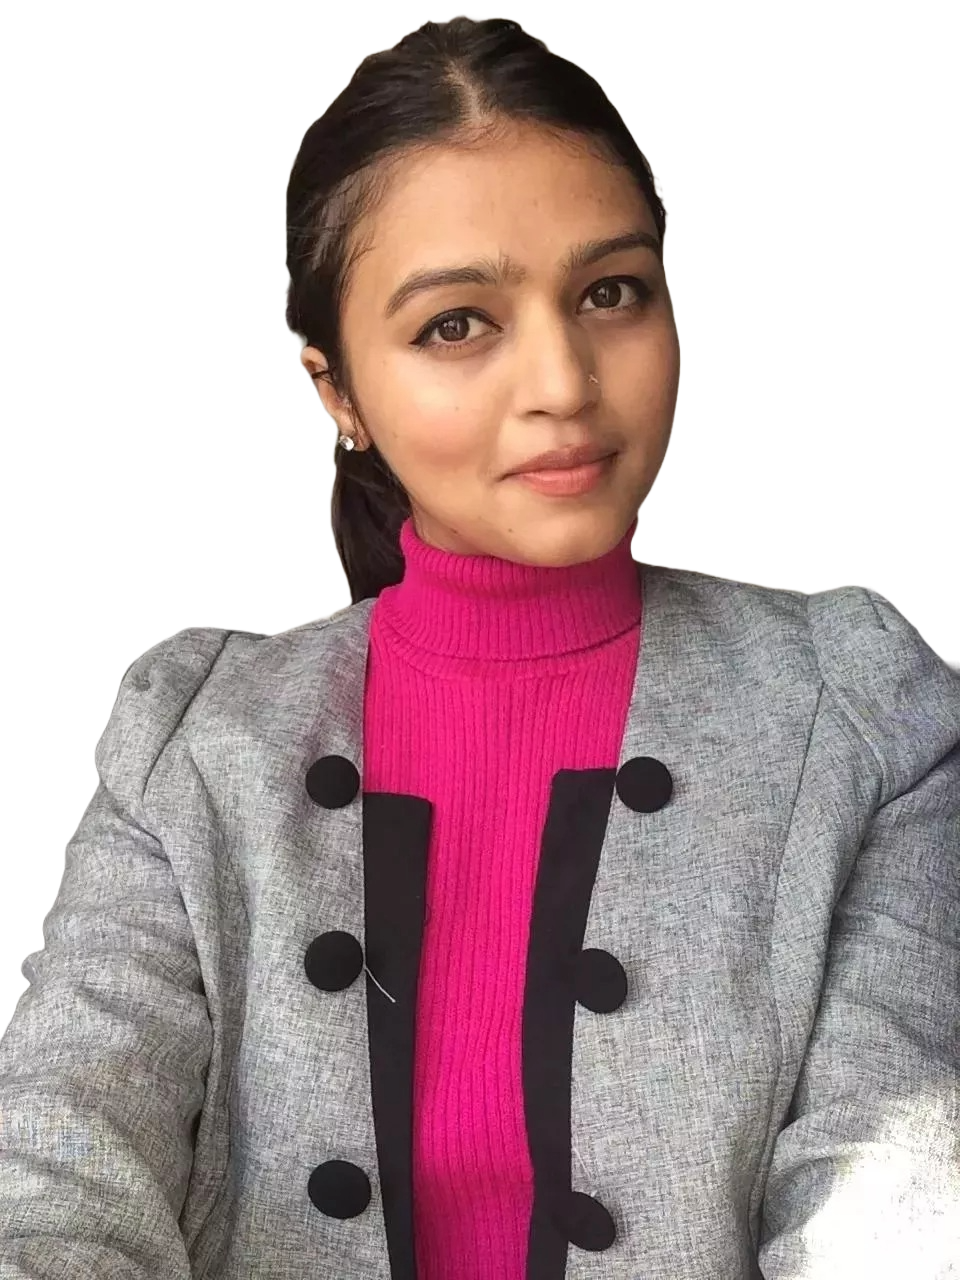
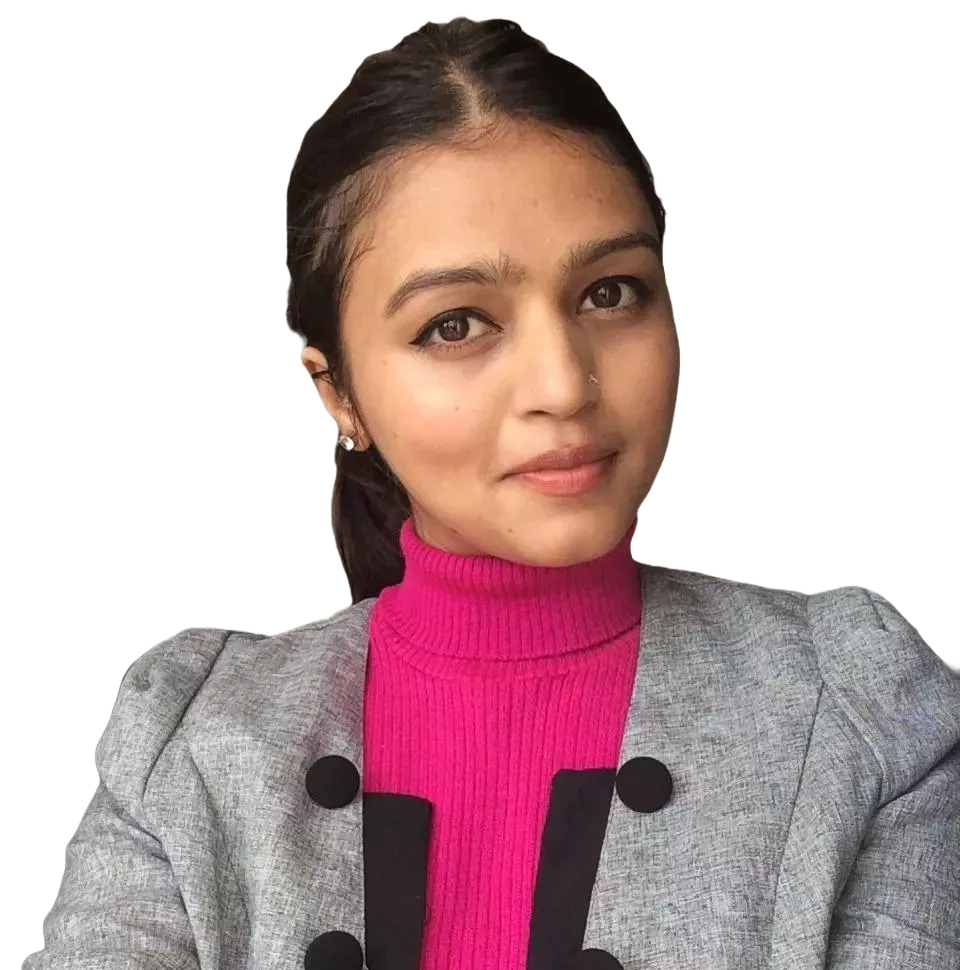
"Added Intro.js and Intro.css components inside the Intro folder"

diff --git a/src/components/Intro/intro.js b/src/components/Intro/intro.js
@@ -1,0 +1,22 @@
+import React from 'react'
+import './intro.css'
+import bg from '../../assets/image.png'
+import btnImg from '../../assets/hireme.png'
+import {Link} from 'react-scroll'
+
+const Intro = () => {
+  return (
+   <section id="intro">
+    <div className="introContent">
+        <span className="hello">Hello,</span>
+        <span className="introText">I'm <span className="introName">Saumya</span><br/>Web Developer</span>
+        <p className="introPara">I am a skilled web developer with experience in creating visually appealing and user friendly websites. </p>
+        <Link><button className="btn"><img src={btnImg} alt="hire me" />Hire Me</button></Link>
+        
+    </div>
+    <img src={bg} alt="Profile" className="bg" />
+   </section>
+  )
+}
+
+export default Intro

diff --git a/src/App.js b/src/App.js
@@ -1,10 +1,10 @@
 import Navbar from "./components/NavBar/navbar";
-
+import Intro from './components/Intro/intro'
 function App() {
   return (
     <div className="App">
 <Navbar/>
-      
+      <Intro/>
     </div>
   );
 }
